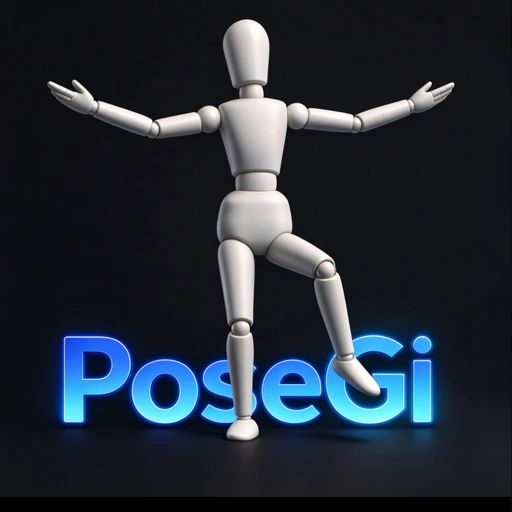
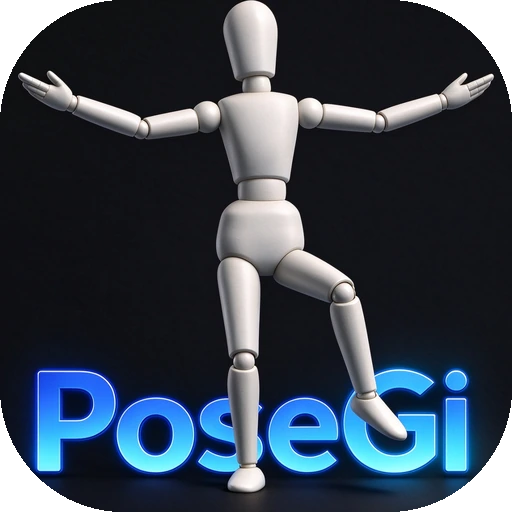
0.1.3：图标重新裁切并烘入圆角,四处统一
上一版图标是在一张 794×814 的转载图上做的:主体包围盒偏竖,补成正方形后
四面都留了一条黑边,底部尤其明显;而且正方形方图在浏览器标签页里是硬角。

这次换回设计原图(1920×1910),做了三件事:

- 先排除原图自带的非设计内容再量主体。右上角有一段生成器残迹,右边缘在字标
  高度上还有一条竖残迹,直接按亮度求包围盒会把这个残迹算进去,裁出一个偏右的
  方框。IGNORE 里那三块窗口就是干这个的,排除后主体是 1249×1365。
- 方框边长取内容高,横向以内容居中:上下贴齐不留边,左右各让 4%。反过来取内容宽
  会在头顶和字标底部各留 195px 黑边,那正是上一版的毛病。
- 圆角直接烘进图里。浏览器标签页不吃 border-radius,宿主端各处圆角也不统一
  (25.9%/28.6%/32%),烘一次处处一致。半径取 24%:字标左端到左下角圆心算下来
  超过 26% 就会啃到「P」。

favicon 另出 192×192 PNG,iOS 的 apple-touch-icon 不吃 WebP。

tools/make-icon.py 重写:自动测量 + IGNORE 窗口 + 圆角,按后缀决定输出格式,
新增 --size。version.code 4→5。

diff --git a/app/core/namespace.js b/app/core/namespace.js
@@ -12,7 +12,7 @@
   /* 与 hermit.json 的 version.name 必须一致(tests/rig.test.mjs 守着)。
      上一轮发版只改了 hermit.json(code 3 / 0.1.1),这里漏了 —— 于是界面上
      顶着「v0.1.0」而装上去的包里写着 0.1.1。以 hermit.json 为准,这里跟上。 */
-  app.version = "0.1.2";
+  app.version = "0.1.3";
 
   /* 主题锁:本应用不做主题切换(设置里没有这一项),一律深色。
      2026-09-25 用户决定 —— 之前跟着系统 prefers-color-scheme 走,新设备系统非深色

diff --git a/tools/make-icon.py b/tools/make-icon.py
@@ -1,24 +1,32 @@
 #!/usr/bin/env python3
-"""把归档的品牌图发布成应用图标。
+"""把归档的品牌图发布成应用图标。一处源图, 多处派生。
 
-`docs/assets/posegi-icon-source.png` 是设计原图:一个摆好动态姿势的木质关节人偶,
-下面一行发光的蓝色 PoseGi 字标,底色是近黑。这张图有三个特点决定了本工具做什么。
+`docs/assets/posegi-icon-source.png` 是设计原图(1920×1910): 一个摆好动态姿势的
+木质关节人偶, 下面一行发光的蓝色 PoseGi 字标, 底色近黑。这张图有四个特点决定了
+本工具怎么做。
 
-* **原图不是正方形**（794×814）,而所有会显示应用图标的地方都是。
-  这里的做法不是压扁,而是先按主体裁掉近黑的留白,再以很小的呼吸边补成正方形,
-  最后整体缩放。人偶的位置和原设计完全一致,没有被重新构图。
-* **它是写实渲染,不是扁平图形。** 兄弟仓库的图标是扁平标记,所以它们那边的
-  `make-icon.py` 写无损 WebP；一张带明暗的 3D 渲染写无损要几百 KB,
-  所以这里用 quality 92 的有损,肉眼看不出差别,体积小一个数量级。
-* **字标在最下面三分之一。** 它要在官网页头 38 px 的位置上还认得出来,
-  所以上方的留白刻意收紧。
+* **它自带三块非设计内容, 必须先排除再量主体。** 右上角有生成器留下的一段折线残迹,
+  右下角有「豆包 AI 生成」水印, 右边缘在字标高度上还有一条竖向残迹。它们都比底色亮,
+  直接按亮度求包围盒会把它们算进主体, 于是裁出一个偏右的方框 —— 图标右侧凭空多出
+  一条黑带。`IGNORE` 里那三块窗口就是干这个的。
+* **主体是 1249×1365, 略偏竖。** 所以正方形的边长取**内容高**, 横向以内容居中:
+  上下贴齐不留边, 左右各让出一小条(约 4%)。反过来取内容宽会在头顶和字标底部各留
+  一条 195 px 的黑边, 那正是要避免的。
+* **圆角直接烘进图里, 不靠 CSS。** 浏览器标签页的 favicon 不吃 `border-radius`,
+  宿主端各处的圆角(25.9% / 28.6% / 32%)也不统一, 所以这里一次烘好, 处处一致。
+  半径取 24% 而不是站点 CSS 的 29%: 字标左端那一点到左下角圆心的距离算下来,
+  半径超过 26% 就会啃到「P」。
+* **它是写实渲染, 不是扁平图形。** 兄弟仓库的图标是扁平标记, 那边写无损 WebP;
+  一张带明暗的 3D 渲染写无损要几百 KB, 所以这里用 quality 92 的有损, 肉眼无异。
 
-输出 512×512,与该应用此前使用的图标尺寸一致。
+输出 512×512 WebP(带透明圆角), favicon 另出 192×192 PNG —— iOS 的
+`apple-touch-icon` 不吃 WebP。
 
 用法:
   python3 tools/make-icon.py --out app/assets/icon.webp
   python3 tools/make-icon.py --out app/assets/icon.webp \\
-      --copy ../hermitweb/public/assets/site/posegi.webp
+      --copy ../hermitweb/public/assets/site/posegi.webp \\
+      --copy ../hermitweb/public/assets/site/posegi-icon-192.png
 """
 
 from __future__ import annotations
@@ -27,72 +35,102 @@ import argparse
 import pathlib
 import shutil
 
-from PIL import Image
+from PIL import Image, ImageDraw
 
 ROOT = pathlib.Path(__file__).resolve().parents[1]
 SOURCE = ROOT / "docs" / "assets" / "posegi-icon-source.png"
 SIDE = 512
-MARGIN = 0.04
+FAVICON_SIDE = 192
 QUALITY = 92
-FIELD = (11, 13, 15)  # 原图四角取样的底色,只有需要补边时才会用到
-LUMINANCE_CUTOFF = 40  # 亮于此值的像素算主体,不算底色
+RADIUS = 0.24  # 圆角占短边比例; 上限见模块注释(26%)
+LUMINANCE_CUTOFF = 45
+
+# 原图里三块不是设计的亮内容, 量主体时要排除。坐标基于 1920×1910。
+IGNORE = (
+    (0, 0, 1920, 270),  # 右上角生成器残迹
+    (1700, 0, 1920, 1910),  # 右边缘竖向残迹
+    (1450, 1750, 1920, 1910),  # 「豆包 AI 生成」水印
+)
 
 
-def luminance(image: Image.Image) -> list[int]:
-    """每像素的最大通道值,够用来把发光的浅色主体从近黑底色里分开。"""
-    pixels = image.load()
-    width, height = image.size
-    return [max(pixels[x, y]) for y in range(height) for x in range(width)]
-
-
-def subject_box(image: Image.Image) -> tuple[int, int, int, int]:
-    width, height = image.size
-    values = luminance(image)
+def content_box(image: Image.Image) -> tuple[int, int, int, int]:
+    """排除 IGNORE 之后, 亮于阈值的像素的包围盒。"""
+    grey = image.convert("L")
+    pixels = grey.load()
+    width, height = grey.size
     xs: list[int] = []
     ys: list[int] = []
-    for index, value in enumerate(values):
-        if value > LUMINANCE_CUTOFF:
-            xs.append(index % width)
-            ys.append(index // width)
+    for y in range(height):
+        for x in range(width):
+            if pixels[x, y] <= LUMINANCE_CUTOFF:
+                continue
+            if any(x0 <= x < x1 and y0 <= y < y1 for x0, y0, x1, y1 in IGNORE):
+                continue
+            xs.append(x)
+            ys.append(y)
     if not xs:
-        return (0, 0, width, height)
-    return (min(xs), min(ys), max(xs) + 1, max(ys) + 1)
+        raise SystemExit("没有找到主体, 检查 LUMINANCE_CUTOFF 或 IGNORE")
+    return min(xs), min(ys), max(xs) + 1, max(ys) + 1
 
 
-def square_artwork() -> Image.Image:
-    art = Image.open(SOURCE).convert("RGB")
-    left, top, right, bottom = subject_box(art)
-    subject_w, subject_h = right - left, bottom - top
-    side = int(round(max(subject_w, subject_h) * (1 + 2 * MARGIN)))
-    centre_x, centre_y = (left + right) / 2, (top + bottom) / 2
-    box = (
-        int(round(centre_x - side / 2)),
-        int(round(centre_y - side / 2)),
-        int(round(centre_x + side / 2)),
-        int(round(centre_y + side / 2)),
+def rounded(image: Image.Image, ratio: float) -> Image.Image:
+    """把方图裁成圆角矩形, 四角透明。"""
+    size = image.size[0]
+    mask = Image.new("L", (size, size), 0)
+    ImageDraw.Draw(mask).rounded_rectangle(
+        (0, 0, size - 1, size - 1), radius=int(round(ratio * size)), fill=255
     )
-    # 主体本来就偏下,正方形常会越出原图；越出的部分用底色补齐,不裁掉人偶或字标。
-    canvas = Image.new("RGB", (side, side), FIELD)
-    canvas.paste(art.crop(box), (max(0, -box[0]), max(0, -box[1])))
-    return canvas.resize((SIDE, SIDE), Image.LANCZOS)
+    out = Image.new("RGBA", (size, size), (0, 0, 0, 0))
+    out.paste(image.convert("RGBA"), (0, 0), mask)
+    return out
+
+
+def artwork(side: int) -> Image.Image:
+    art = Image.open(SOURCE).convert("RGB")
+    left, top, right, bottom = content_box(art)
+    width, height = right - left, bottom - top
+    # 方框取内容高, 横向以内容居中 —— 上下贴齐, 左右各让一条。
+    span = height
+    centre_x = (left + right) / 2
+    box = (
+        int(round(centre_x - span / 2)),
+        top,
+        int(round(centre_x - span / 2)) + span,
+        bottom,
+    )
+    canvas = Image.new("RGB", (span, span), (11, 13, 15))
+    crop = art.crop(box)
+    canvas.paste(crop, (max(0, -box[0]), 0))
+    return rounded(canvas.resize((side, side), Image.LANCZOS), RADIUS)
+
+
+def save(path: pathlib.Path, icon: Image.Image) -> None:
+    path.parent.mkdir(parents=True, exist_ok=True)
+    if path.suffix.lower() == ".png":
+        icon.save(path, format="PNG", optimize=True)
+    else:
+        icon.save(path, format="WEBP", quality=QUALITY, method=6)
+    print(f"{path}  {icon.size[0]}x{icon.size[1]}  {path.stat().st_size} bytes")
 
 
 def main() -> None:
     parser = argparse.ArgumentParser(description=__doc__)
-    parser.add_argument("--out", required=True, help="输出的 WebP 路径")
+    parser.add_argument("--out", required=True, help="主输出(按后缀决定格式)")
     parser.add_argument("--copy", action="append", default=[], help="额外接收同一图标的路径")
-    parser.add_argument("--preview", help="可选的 PNG 预览路径")
+    parser.add_argument("--size", type=int, default=SIDE, help=f"主输出边长, 默认 {SIDE}")
+    parser.add_argument("--preview", help="可选的对照图输出路径")
     args = parser.parse_args()
 
-    icon = square_artwork()
+    icon = artwork(args.size)
     output = pathlib.Path(args.out)
-    output.parent.mkdir(parents=True, exist_ok=True)
-    icon.save(output, format="WEBP", quality=QUALITY, method=6)
-    print(f"created {output} ({icon.size[0]}x{icon.size[1]}, {output.stat().st_size} bytes)")
+    save(output, icon)
     for destination in args.copy:
         path = pathlib.Path(destination)
         path.parent.mkdir(parents=True, exist_ok=True)
-        shutil.copyfile(output, path)
+        if path.suffix.lower() == ".png":
+            artwork(FAVICON_SIDE).save(path, format="PNG", optimize=True)
+        else:
+            shutil.copyfile(output, path)
         print(f"copied to {path}")
     if args.preview:
         icon.save(args.preview, format="PNG")

diff --git a/README.md b/README.md
@@ -5,7 +5,7 @@ PoseGi 是运行在 [Hermit](https://hermit.airen.life/) 宿主里的 3D 摆姿 
 > 官网：<https://posegi.airen.life/> · 源码仓库：<https://github.com/zhyuzh3d/PoseGi> · [下载安装包](https://hermit.airen.life/pages/happs.html#happ-life-airen-posegi) · [GitHub Releases](https://github.com/zhyuzh3d/PoseGi/releases) · [MIT License](./LICENSE)
 
 - happ id：`life.airen.posegi`
-- 当前源码版本：`0.1.2`(versionCode `4`,见 `hermit.json`)
+- 当前源码版本：`0.1.3`(versionCode `5`,见 `hermit.json`)
 - 形态：HermitApp 的普通 happ,不能脱离宿主单独安装,纯原生 HTML / CSS / JavaScript,没有构建步骤
 - 3D 内核：内置 three.js r147(`vendor/three/`,随包分发,不联网加载)
 
